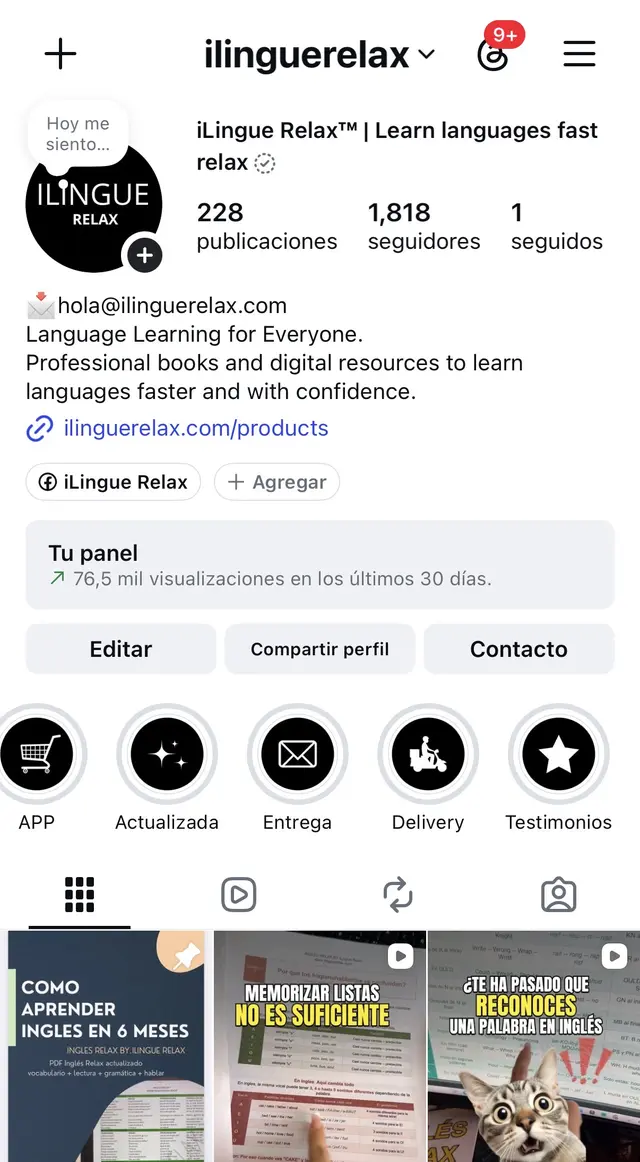
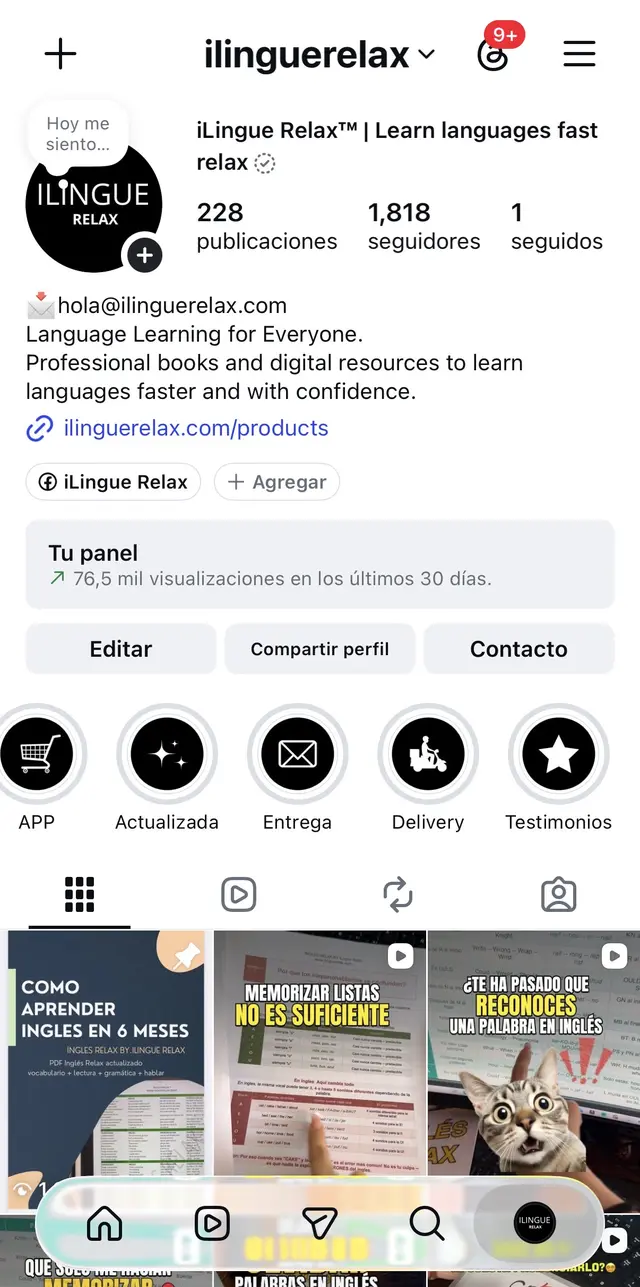
iLingue: capturas COMPLETAS en los celulares (sin recortar) y panel de Google como tercer celular
- Facebook, Instagram y el panel de Google «iLingue Relax» se muestran enteros (solo reducidos a 640 px), a su altura natural dentro del celular: recortadas parecían editadas.
- Celular: se deslizan con el dedo; escritorio: 3 columnas. Botón «Búscanos en Google» abre la búsqueda de iLingue Relax.
- La foto se muestra a su proporción natural (solo se quita la franja de «me gusta» de Instagram).

Claude-Session: https://claude.ai/code/session_01BGB48LdfbLWXGgwRhZvKy4

diff --git a/src/components/FounderCommunity.tsx b/src/components/FounderCommunity.tsx
@@ -1,9 +1,10 @@
-import { Facebook, Instagram } from "lucide-react";
+import { Facebook, Instagram, Search } from "lucide-react";
 import { useI18n } from "@/i18n/I18nContext";
 
 type Lang = "es" | "en" | "fr" | "it" | "pt";
 
 const INSTAGRAM_URL = "https://www.instagram.com/ilinguerelax/";
+const GOOGLE_URL = "https://www.google.com/search?q=iLingue+Relax";
 const FACEBOOK_URL = "https://www.facebook.com/ilinguerelax";
 /** Cifras REALES de las capturas de las cuentas (Facebook 7,4 mil; Instagram 1.818), redondeadas hacia abajo. Actualizar cuando crezcan. */
 const FACEBOOK_FOLLOWERS = 7400;
@@ -13,7 +14,7 @@ const TOTAL = FACEBOOK_FOLLOWERS + INSTAGRAM_FOLLOWERS;
 const TXT: Record<Lang, {
   kicker: string; hello: string; behind: string; p1: string; p2: string; p3: string; bye: string; alt: string;
   badgeFollowers: string; badgeEng: string; badgeEngSub: string; badgeMkt: string;
-  commKicker: string; commBefore: string; commAfter: string; commText: string; igCta: string; fbCta: string; igAlt: string; fbAlt: string;
+  commKicker: string; commBefore: string; commAfter: string; commText: string; igCta: string; fbCta: string; gCta: string; igAlt: string; fbAlt: string; gAlt: string; gLabel: string;
 }> = {
   es: {
     kicker: "Conoce a Crady", hello: "¡Hola! Soy Crady,", behind: "detrás de iLingue Relax.",
@@ -23,7 +24,7 @@ const TXT: Record<Lang, {
     bye: "¡Mucho gusto! Aprende a tu ritmo, sin vergüenza. 💙", alt: "Crady, detrás de iLingue Relax",
     badgeFollowers: "seguidores", badgeEng: "Ing. Civil", badgeEngSub: "carrera de base", badgeMkt: "10 años en marketing",
     commKicker: "Comunidad", commBefore: "Más de", commAfter: "seguidores en Facebook e Instagram", commText: "Mira cómo es la comunidad de iLingue Relax y aprende con nosotros, sin estrés.",
-    igCta: "Sígueme en Instagram", fbCta: "Sígueme en Facebook", igAlt: "Perfil de Instagram de iLingue Relax (@ilinguerelax)", fbAlt: "Página de Facebook de iLingue Relax: 7,4 mil seguidores",
+    igCta: "Sígueme en Instagram", fbCta: "Sígueme en Facebook", gCta: "Búscanos en Google", gAlt: "Panel de iLingue Relax en Google: sitio web y descripción de la marca", gLabel: "En Google", igAlt: "Perfil de Instagram de iLingue Relax (@ilinguerelax)", fbAlt: "Página de Facebook de iLingue Relax: 7,4 mil seguidores",
   },
   en: {
     kicker: "Meet Crady", hello: "Hi! I'm Crady,", behind: "the person behind iLingue Relax.",
@@ -33,7 +34,7 @@ const TXT: Record<Lang, {
     bye: "Nice to meet you! Learn at your own pace, without embarrassment. 💙", alt: "Crady, the person behind iLingue Relax",
     badgeFollowers: "followers", badgeEng: "Civil Eng.", badgeEngSub: "base degree", badgeMkt: "10 years in marketing",
     commKicker: "Community", commBefore: "Over", commAfter: "followers on Facebook and Instagram", commText: "See what the iLingue Relax community looks like and learn with us, stress-free.",
-    igCta: "Follow on Instagram", fbCta: "Follow on Facebook", igAlt: "iLingue Relax Instagram profile (@ilinguerelax)", fbAlt: "iLingue Relax Facebook page: 7.4K followers",
+    igCta: "Follow on Instagram", fbCta: "Follow on Facebook", gCta: "Find us on Google", gAlt: "iLingue Relax brand panel on Google: website and brand description", gLabel: "On Google", igAlt: "iLingue Relax Instagram profile (@ilinguerelax)", fbAlt: "iLingue Relax Facebook page: 7.4K followers",
   },
   fr: {
     kicker: "Faites connaissance avec Crady", hello: "Bonjour ! Je suis Crady,", behind: "la personne derrière iLingue Relax.",
@@ -43,7 +44,7 @@ const TXT: Record<Lang, {
     bye: "Enchanté(e) ! Apprenez à votre rythme, sans gêne. 💙", alt: "Crady, la personne derrière iLingue Relax",
     badgeFollowers: "abonnés", badgeEng: "Ing. civil", badgeEngSub: "formation de base", badgeMkt: "10 ans en marketing",
     commKicker: "Communauté", commBefore: "Plus de", commAfter: "abonnés sur Facebook et Instagram", commText: "Découvrez la communauté iLingue Relax et apprenez avec nous, sans stress.",
-    igCta: "Suivez-moi sur Instagram", fbCta: "Suivez-moi sur Facebook", igAlt: "Profil Instagram d'iLingue Relax (@ilinguerelax)", fbAlt: "Page Facebook d'iLingue Relax : 7,4 k abonnés",
+    igCta: "Suivez-moi sur Instagram", fbCta: "Suivez-moi sur Facebook", gCta: "Trouvez-nous sur Google", gAlt: "Fiche de la marque iLingue Relax sur Google : site web et description", gLabel: "Sur Google", igAlt: "Profil Instagram d'iLingue Relax (@ilinguerelax)", fbAlt: "Page Facebook d'iLingue Relax : 7,4 k abonnés",
   },
   it: {
     kicker: "Conosci Crady", hello: "Ciao! Sono Crady,", behind: "la persona dietro iLingue Relax.",
@@ -53,7 +54,7 @@ const TXT: Record<Lang, {
     bye: "Piacere! Impara con i tuoi tempi, senza imbarazzo. 💙", alt: "Crady, la persona dietro iLingue Relax",
     badgeFollowers: "follower", badgeEng: "Ing. Civile", badgeEngSub: "laurea di base", badgeMkt: "10 anni nel marketing",
     commKicker: "Comunità", commBefore: "Più di", commAfter: "follower su Facebook e Instagram", commText: "Scopri la comunità di iLingue Relax e impara con noi, senza stress.",
-    igCta: "Seguimi su Instagram", fbCta: "Seguimi su Facebook", igAlt: "Profilo Instagram di iLingue Relax (@ilinguerelax)", fbAlt: "Pagina Facebook di iLingue Relax: 7,4 mila follower",
+    igCta: "Seguimi su Instagram", fbCta: "Seguimi su Facebook", gCta: "Trovaci su Google", gAlt: "Scheda del marchio iLingue Relax su Google: sito web e descrizione", gLabel: "Su Google", igAlt: "Profilo Instagram di iLingue Relax (@ilinguerelax)", fbAlt: "Pagina Facebook di iLingue Relax: 7,4 mila follower",
   },
   pt: {
     kicker: "Conheça o Crady", hello: "Olá! Eu sou o Crady,", behind: "a pessoa por trás da iLingue Relax.",
@@ -63,7 +64,7 @@ const TXT: Record<Lang, {
     bye: "Prazer! Aprenda no seu ritmo, sem vergonha. 💙", alt: "Crady, a pessoa por trás da iLingue Relax",
     badgeFollowers: "seguidores", badgeEng: "Eng. Civil", badgeEngSub: "formação de base", badgeMkt: "10 anos em marketing",
     commKicker: "Comunidade", commBefore: "Mais de", commAfter: "seguidores no Facebook e Instagram", commText: "Veja como é a comunidade iLingue Relax e aprenda com a gente, sem estresse.",
-    igCta: "Siga no Instagram", fbCta: "Siga no Facebook", igAlt: "Perfil do Instagram da iLingue Relax (@ilinguerelax)", fbAlt: "Página do Facebook da iLingue Relax: 7,4 mil seguidores",
+    igCta: "Siga no Instagram", fbCta: "Siga no Facebook", gCta: "Encontre-nos no Google", gAlt: "Painel da marca iLingue Relax no Google: site e descrição", gLabel: "No Google", igAlt: "Perfil do Instagram da iLingue Relax (@ilinguerelax)", fbAlt: "Página do Facebook da iLingue Relax: 7,4 mil seguidores",
   },
 };
 
@@ -78,22 +79,21 @@ const Rich = ({ html, className }: { html: string; className?: string }) => (
   <p className={className} dangerouslySetInnerHTML={{ __html: html.replace(/<b>/g, '<b class="text-primary">') }} />
 );
 
-function Phone({ src, alt }: { src: string; alt: string }) {
+/** Celular con la captura COMPLETA (sin recortar), a su altura natural. */
+function Phone({ src, alt, w, h }: { src: string; alt: string; w: number; h: number }) {
   return (
     <div className="relative mx-auto w-[230px] rounded-[2.4rem] bg-neutral-900 p-2.5 shadow-xl ring-8 ring-primary/15 sm:w-[250px]">
       <div className="absolute left-1/2 top-3.5 z-10 h-4 w-20 -translate-x-1/2 rounded-full bg-neutral-900" aria-hidden="true" />
-      <div className="aspect-[11/20] w-full overflow-hidden rounded-[1.9rem] bg-white">
-        <img src={src} alt={alt} loading="lazy" decoding="async" className="w-full" />
-      </div>
+      <img src={src} alt={alt} width={w} height={h} loading="lazy" decoding="async" className="h-auto w-full rounded-[1.9rem] bg-white" />
     </div>
   );
 }
 
 /**
  * «Conoce a Crady» (mismo modelo que YMT Fitness: foto en arco con dos insignias) + «Más de X seguidores en Facebook e Instagram»
- * (capturas REALES de Facebook e Instagram dentro de un celular). Solo datos reales dados por la dueña: discapacidad auditiva y su historia,
+ * (capturas REALES y COMPLETAS de Facebook, Instagram y del panel de Google dentro de celulares). Solo datos reales dados por la dueña: discapacidad auditiva y su historia,
  * 10 años en marketing, Ingeniería Civil, Facebook 7,4 mil e Instagram 1.818 seguidores. Las capturas están en public/img/comunidad
- * (la de Facebook se recortó por abajo para no publicar los nombres de seguidores). No inventar otras cifras.
+ *. No inventar otras cifras.
  */
 export const FounderCommunity = ({ className = "" }: { className?: string }) => {
   const { language } = useI18n();
@@ -114,7 +114,7 @@ export const FounderCommunity = ({ className = "" }: { className?: string }) => 
                 height={896}
                 loading="lazy"
                 decoding="async"
-                className="aspect-[3/4] w-full rounded-t-[999px] rounded-b-2xl border-2 border-primary/50 bg-muted object-cover object-[50%_25%]"
+                className="aspect-[720/893] w-full rounded-t-[999px] rounded-b-2xl border-2 border-primary/50 bg-muted object-cover"
               />
             </div>
             <div className="absolute -left-3 bottom-8 rounded-xl border border-primary/40 bg-background px-3 py-1.5 text-center shadow-md">
@@ -147,7 +147,7 @@ export const FounderCommunity = ({ className = "" }: { className?: string }) => 
 
       {/* Comunidad */}
       <section className="bg-secondary/40 px-4 py-10 md:px-6 md:py-14" aria-labelledby="ilr-comunidad">
-        <div className="mx-auto max-w-4xl text-center">
+        <div className="mx-auto max-w-5xl text-center">
           <div className="flex items-center justify-center gap-3 text-xs font-bold uppercase tracking-widest text-primary">
             <span className="h-px w-10 bg-primary" aria-hidden="true" /> {t.commKicker} <span className="h-px w-10 bg-primary" aria-hidden="true" />
           </div>
@@ -156,21 +156,21 @@ export const FounderCommunity = ({ className = "" }: { className?: string }) => 
           </h2>
           <p className="mx-auto mt-4 max-w-xl text-base text-foreground/80 md:text-lg">{t.commText}</p>
 
-          <div className="mt-10 grid gap-10 sm:grid-cols-2">
-            <div className="flex flex-col items-center gap-5">
-              <Phone src="/img/comunidad/facebook.webp" alt={t.fbAlt} />
-              <a href={FACEBOOK_URL} target="_blank" rel="noopener noreferrer" className="inline-flex items-center gap-2 rounded-full border-2 border-primary bg-background px-6 py-3 text-sm font-bold uppercase tracking-wide text-primary shadow-md transition hover:bg-primary hover:text-primary-foreground">
-                <Facebook className="h-5 w-5" aria-hidden="true" /> {t.fbCta}
-              </a>
-              <span className="-mt-2 text-sm font-bold text-primary">iLingue Relax</span>
-            </div>
-            <div className="flex flex-col items-center gap-5">
-              <Phone src="/img/comunidad/instagram.webp" alt={t.igAlt} />
-              <a href={INSTAGRAM_URL} target="_blank" rel="noopener noreferrer" className="inline-flex items-center gap-2 rounded-full border-2 border-primary bg-background px-6 py-3 text-sm font-bold uppercase tracking-wide text-primary shadow-md transition hover:bg-primary hover:text-primary-foreground">
-                <Instagram className="h-5 w-5" aria-hidden="true" /> {t.igCta}
-              </a>
-              <span className="-mt-2 text-sm font-bold text-primary">@ilinguerelax</span>
-            </div>
+          {/* Celular: deslizable con el dedo; escritorio: 3 columnas */}
+          <div className="mt-10 flex snap-x snap-mandatory gap-8 overflow-x-auto px-2 pb-4 [scrollbar-width:none] md:grid md:grid-cols-3 md:overflow-visible md:px-0">
+            {[
+              { id: "fb", src: "/img/comunidad/facebook.webp", w: 640, h: 1169, alt: t.fbAlt, href: FACEBOOK_URL, cta: t.fbCta, icon: Facebook, handle: "iLingue Relax" },
+              { id: "ig", src: "/img/comunidad/instagram.webp", w: 640, h: 1287, alt: t.igAlt, href: INSTAGRAM_URL, cta: t.igCta, icon: Instagram, handle: "@ilinguerelax" },
+              { id: "g", src: "/img/comunidad/google.webp", w: 640, h: 1319, alt: t.gAlt, href: GOOGLE_URL, cta: t.gCta, icon: Search, handle: t.gLabel },
+            ].map((it) => (
+              <div key={it.id} className="flex w-[250px] shrink-0 snap-center flex-col items-center gap-5 md:w-auto">
+                <Phone src={it.src} alt={it.alt} w={it.w} h={it.h} />
+                <a href={it.href} target="_blank" rel="noopener noreferrer" className="inline-flex items-center gap-2 rounded-full border-2 border-primary bg-background px-5 py-3 text-sm font-bold uppercase tracking-wide text-primary shadow-md transition hover:bg-primary hover:text-primary-foreground">
+                  <it.icon className="h-5 w-5" aria-hidden="true" /> {it.cta}
+                </a>
+                <span className="-mt-2 text-sm font-bold text-primary">{it.handle}</span>
+              </div>
+            ))}
           </div>
         </div>
       </section>

diff --git a/AGENTS.md b/AGENTS.md
@@ -52,4 +52,4 @@
 - Pago rápido (iLingue, `ExpressCheckoutBox`): el botón solo ofrece Apple Pay, Google Pay y Link; `paymentMethods: { amazonPay, paypal, klarna: "never" }` porque esos necesitan redirección y `create-express-intent` crea el pago de Pago rápido con `allow_redirects: "never"` (si aparecían y se tocaban, la confirmación fallaba y quedaba un pago «Incompleto» sin método). El pago se crea cuando el comprador autoriza (intención diferida): un «Incompleto» con `[PED]` en metadata es una autorización o confirmación que no terminó; el motivo queda en «Fallos de pago» («express confirm» / «express create_intent»). Apple Pay, Google Pay y Link no se tocan.
 - Upsell y Pago rápido (iLingue, `Checkout.tsx` + `CheckoutSuccess.tsx`): `UpsellPanel` («Agrega a tu pedido y ahorra») ahora va ANTES de `ExpressCheckoutBox`: quien paga con Apple Pay / Google Pay / Link no pasa por el popup de upsell (`offerUpsellThen`) y antes nunca lo veía; al agregar un extra el botón de Pago rápido se vuelve a cotizar solo (firma de `items`). Posterior a la compra: la página de éxito conserva el cobro de 1 clic (solo Stripe con tarjeta guardada, es decir fuera de Europa/LATAM) y para el resto (España/Europa, LATAM, dLocal, transferencias) muestra «Completa tu aprendizaje» con hasta 2 upsells que el cliente aún no tiene, como ENLACE a su página de producto (sin prometer un descuento que la página no aplica); se suma al correo del día 3 (`process-postpurchase-upsell`).
 - OXXO directo (iLingue, `create-checkout-hosted` + `CheckoutPending`): con `stripePaymentMethod: "oxxo"` la función crea y confirma un PaymentIntent OXXO (monto en MXN, ficha de 3 días, `payment_method_data.billing_details` = nombre y correo del checkout, `metadata.source = checkout-hosted-fallback`) y responde `{ oxxo: { number, url, expires_at } }`: ya NO se abre la página de Stripe ni se pide el nombre otra vez. El navegador va a `/checkouts/pending?reason=oxxo_pending&oxxo_url=…&oxxo_ref=…` (solo se acepta un enlace de stripe.com), donde se ve el número de referencia y el botón «Ver mi ficha con código de barras». La entrega sigue siendo SOLO por webhook (`payment_intent.succeeded` ya manejado por `handleSucceededPaymentIntent`). Si Stripe no deja crear la ficha directa, se cae a la sesión de Stripe de antes (con `checkout.session.async_payment_*`). Tras cambiar la función hay que volver a desplegar `create-checkout-hosted`.
-- Confianza (iLingue): cinta superior `LaunchOfferBar` (la monta `StickyBuyBar`, así sale en TODAS las páginas de producto; no en checkout/admin): repite el precio y el precio anterior tachado que ya muestra la página, SIN un «% OFF» propio, y solo con una cifra real (nunca con «Cargando precio…»). Va en el `<body>` con espaciador + barra fija porque `html/body` tienen `overflow-x: hidden` y `sticky` no funciona. `FounderCommunity` («¡Hola! Soy Crady…», mismo modelo que YMT Fitness: foto en arco con 2 insignias + «Más de 9.200 seguidores» con celulares REALES de Facebook e Instagram, 5 idiomas) está en Patrones, `ProductDynamic` e Index; foto en `public/images/crady-ilingue-relax.webp`, capturas en `public/img/comunidad/` (la de Facebook se recortó por abajo para no publicar nombres de seguidores). Historia real dada por la dueña (se llama CRADY, no Gladys): discapacidad auditiva, nunca aprendió inglés por vergüenza (no oía bien ni sabía pronunciar), creó iLingue Relax (idiomas sin estrés, pronunciación escrita paso a paso); 10 años en marketing, base en Ingeniería Civil; Facebook 7,4 mil y Instagram 1.818 seguidores (mostrados como 7.400 y 1.800; actualizar cuando crezcan). NO mostrar la calificación de Trustpilot (1 opinión, 3,7) ni la vista de Google con IA. No hay línea de «cómo se pronuncia iLingue» (era una suposición).
+- Confianza (iLingue): cinta superior `LaunchOfferBar` (la monta `StickyBuyBar`, así sale en TODAS las páginas de producto; no en checkout/admin): repite el precio y el precio anterior tachado que ya muestra la página, SIN un «% OFF» propio, y solo con una cifra real (nunca con «Cargando precio…»). Va en el `<body>` con espaciador + barra fija porque `html/body` tienen `overflow-x: hidden` y `sticky` no funciona. `FounderCommunity` («¡Hola! Soy Crady…», mismo modelo que YMT Fitness: foto en arco con 2 insignias + «Más de 9.200 seguidores» con 3 celulares REALES: Facebook, Instagram y Google, 5 idiomas) está en Patrones, `ProductDynamic` e Index; foto en `public/images/crady-ilingue-relax.webp`, capturas COMPLETAS y sin recortar en `public/img/comunidad/` (Facebook, Instagram y el panel de Google «iLingue Relax», a pedido de la dueña: recortadas parecían editadas). OJO privacidad: la de Facebook muestra los nombres de 3 seguidores y el teléfono de contacto de la página; si la dueña quiere ocultarlos, que suba otra captura (p. ej. sin sesión iniciada); no editar nosotros. Historia real dada por la dueña (se llama CRADY, no Gladys): discapacidad auditiva, nunca aprendió inglés por vergüenza (no oía bien ni sabía pronunciar), creó iLingue Relax (idiomas sin estrés, pronunciación escrita paso a paso); 10 años en marketing, base en Ingeniería Civil; Facebook 7,4 mil y Instagram 1.818 seguidores (mostrados como 7.400 y 1.800; actualizar cuando crezcan). NO mostrar la calificación de Trustpilot (1 opinión, 3,7). El celular de Google es el panel de marca (con «Visión general creada por IA»); su botón abre la búsqueda «iLingue Relax» en Google. No hay línea de «cómo se pronuncia iLingue» (era una suposición).
